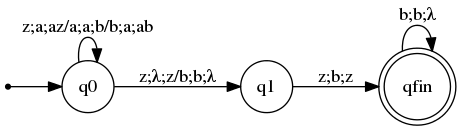
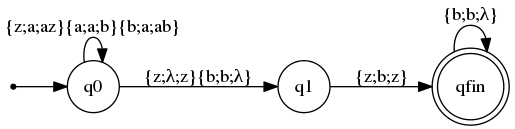
Apuntes para Lago

Changed region(s): [[0.0, 0.031, 1.0, 0.9922], [0.0, 0.6512, 0.0304, 0.7132]]

diff --git a/Automatas y lenguajes/AUTLEN.tex b/Automatas y lenguajes/AUTLEN.tex
@@ -152,6 +152,24 @@ Orden de precedencia de los operadores (de más a menos):
 \end{enumerate}
 Cuando la precedencia no esté clara o se quiera alterar, se pueden usar paréntesis.
 
+\begin{example}
+Encontrar los lenguajes definido por las siguientes expresiones regulares:
+\begin{enumerate}
+\item$a.(b+a).b$\\
+ Cadenas de tres símbolos que empiezan por 'a' y acaban por 'b' y el símbolo central es una 'a' o una 'b': \{abb,aab\}
+\item $(a+b)$\\
+Cadenas de un solo símbolo, que es o 'a' o 'b': \{a,b\}
+\item $(a+b)*$\\
+Todas las cadenas posibles formadas por los símbolos a y b (incluso la cadena vacía)
+\item $(a+b).(a+b)*$ \\
+Todas las cadenas posibles formadas por los símbolos a y b. Pero no incluye la cadena vacía ya que por $(a+b)$ necesariamente deben contener una 'a' o una 'b'.
+\item $(aa+bb)*$ \\
+Todas las cadenas posibles formadas por 'a' y 'b' con la condición de que siempre aparezcan los símbolos consecutivos un número par de veces. Es decir, cadenas del tipo 'aaaabbaabbbbbb', (no valdría 'aaabb') (incluyendo la cadena vacía).
+
+\end{enumerate}
+
+\end{example}
+
 
 \chapter{Gramática}
 \begin{defn}[Gramática]
@@ -550,22 +568,19 @@ Esto no es posible ya que siempre necesito llegar hasta la mitad de la palabra `
 Es aquí donde surgen los autómatas a pila. Estos autómatas se caracterizan por que en cada salto indicamos una entrada, saca el símbolo de la cima de la pila y añade una cadena a la pila.
 
 Para el lenguaje dado, el autómata a pila que lo representa sería:
-%TODO autómata a pila del lenguaje ese.
+
+\begin{center}
+\includegraphics[scale=0.75]{automata5.png}
+\end{center}
 En teoría, las etiquetas de los arcos del autómata deberían ser de la forma:
 \[A_b^c\]
-donde $A$ sería la entrada leída, $b$ el elemento que extraemos del tope de la pila y $c$ la cadena que insertamos en la pila.
+donde $A$ sería la entrada leída, $b$ el elemento que extraemos del tope de la pila y $c$ la cadena que insertamos en la pila. Por tanto una transición solo se puede dar si aparte de tener la entrada correspondiente, la cima de la pila coincide con lo que vamos a extraer de ella.
 
 Con el fin de poder dibujar esto autómata cómodamente, la notación que usaremos será:
 \[b;A;c\]
 donde $b,A,c$ tienen el mismo significado que el indicado anteriormente.
 
-\begin{example}
-Queremos encontrar un autómata que represente el lenguaje:
-\[L = \lbrace a^nb^n, n \geq 0\rbrace\]
 
-El autómata de pila que representa este lenguaje es:
-\end{example}
-%TODO Completar con la clase del lunes. Creo que con completar la explicacioncilla del ejemploy el anterior que introduce los automatas a pila será suficiente.
 
 \begin{defn}[Autómata a pila]
 Un autómata a pila se representa como:
@@ -634,6 +649,17 @@ cuando hay una secuencia $d_0,d_1,...$ de precedencias tales que:
 Basándonos en estas definiciones, podemos representar el lenguaje aceptado por un autómata a pila como:
 \[L(A) = \lbrace w \in \Sigma^* \tq (q_0, w, A_0) \vdash^* (p, \lambda, X)\rbrace\]
 con $p\in F, X \in \topl^*$
+
+\begin{example}
+Queremos encontrar un autómata que represente el lenguaje:
+\[L = \lbrace a^nb^n, n \geq 0\rbrace\]
+
+El autómata de pila que representa este lenguaje es:
+
+\begin{center}
+\includegraphics[scale=0.75]{automata6.png}
+\end{center}
+\end{example}
 
 
 \appendix

diff --git a/Automatas y lenguajes/tex/Ejercicios.tex b/Automatas y lenguajes/tex/Ejercicios.tex
@@ -9,8 +9,6 @@ Encontrar el lenguaje definido por la gramática:
 \item $A \rightarrow \lambda$
 \end{itemize}
 \solution
-Mediante el elegante método de \textbf{La cuenta de la vieja} llegamos a:
-
  L(G) = $ab(bbaa)^nbba(ba)^n$
 \end{problem}
 
